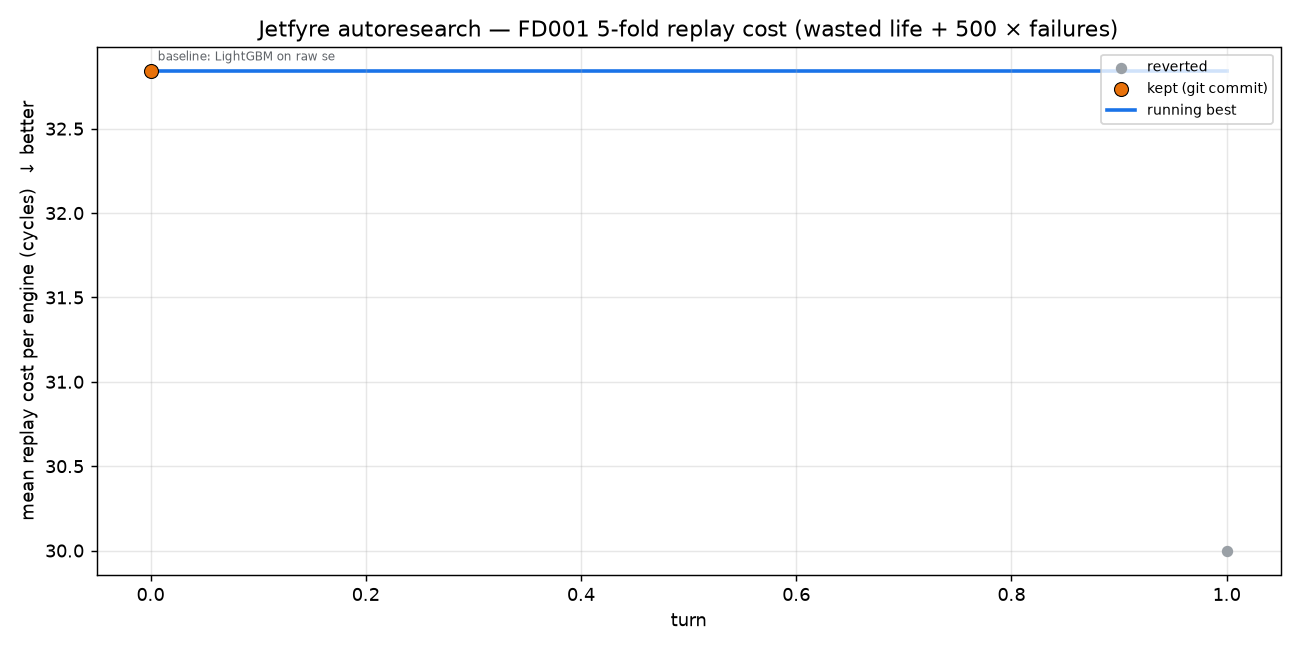
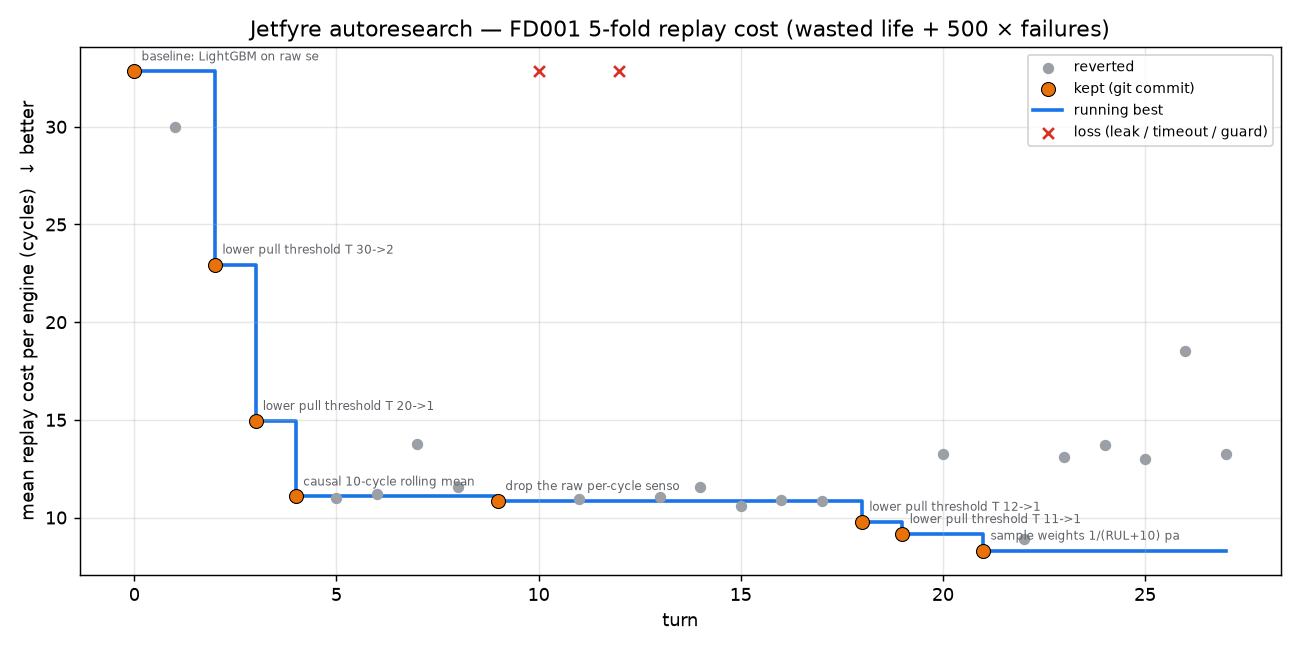
Final research-run artifacts; dashboard replays the full run

diff --git a/memory/insights.md b/memory/insights.md
@@ -34,3 +34,4 @@ Format:
 - T0024 | LightGBM monotone constraints (intermediate) on the T0021 model: RUL non-increasing in r10 of s2/s3/s4/s8/s11/s13/s15/s17, non-decreasing in s7/s12/s20/s21, s9/s14 and settings free → discard (mean 13.70 vs 8.31, wins 0/5, fails 1) | rmse125 fell slightly (28.9→27.9), but every fold got worse: f1-f4 waste rose 0.2-0.55 (9.15/8.8/10.5/7.8), and the f5 tail engine ran to failure (f5 32.25). The constraints widened the spread at the crossing: typical engines pulled earlier, and the tail engine pulled later. So the late-life warning for the worst engine comes from non-monotone sensor patterns that a physical prior removes. Don't constrain or regularise the trees toward "textbook" sensor directions. Like the six feature changes, this lever is used up. What is left untried is quantile alpha≈0.4 at T=8.5, or holdout robustness
 - T0025 | lag-free prediction smoothing on the T0021 model: pred[t] := causal 5-cycle mean of the implied failure cycle (j+pred[j]) minus t → discard (mean 13.02 vs 8.31, wins 3/5, fails 1) | overall waste fell 8.31→8.09 (f2/f3/f4 7.7/9.8/6.5, f1 worse at 9.4), but the f5 tail engine ran to failure again (f5 31.7). Removing the RUL-falls-1/cycle lag was not enough: that engine's predicted failure cycle drops late in life (prediction falls faster than 1/cycle as the warning arrives), so averaging past estimates still delays its first crossing. The noisy dip/acceleration is what saves it, so any prediction smoothing (lagged or lag-free) costs f5 its margin. Stop post-processing the prediction series. Of the levers listed so far, only quantile alpha≈0.4 at T=8.5 is still untried
 - T0026 | quantile objective alpha=0.4 (unweighted) in place of L2 + weights 1/(RUL+10), T=8.5, settings + r10 unchanged → discard (mean 18.51 vs 8.31, wins 1/5, fails 2) | one engine ran to failure on f1 (34.45) as well as the usual f5 tail engine (32.0), and the surviving engines wasted no less (f2 8.25 flat, f3 10.7 +0.55, f4 7.15 −0.1; ≈9.95 on f1's other 19 and ≈7.4 on f5's), while rmse125 fell 28.9→25.8. The conditional 40th percentile is a weaker tail protector than the weighted mean: the L2 mean is pulled down by atypical low-RUL training engines and its bias grows about with the squared spread, while the quantile ignores those outliers and shifts only about linearly. So the weights work because they are outlier-sensitive. Quantile/L1-type losses are used up. If a bias lever is tried again, make it more outlier-sensitive than the weights (e.g. an asymmetric L2 that penalises over-prediction more, together with the weights), not more robust
+- T0027 | asymmetric L2 (custom objective, grad+hess ×2 where pred>true) on top of weights 1/(RUL+10), paired with T 8.5→7.5, settings + r10 unchanged → discard (mean 13.25 vs 8.31, wins 2/5, fails 1) | f1-f4 came out almost the same as T0021 (8.85/8.25/10.15/7.05, all within 0.2) even though T dropped a full cycle, so the expectile shifted typical engines down by ≈1 cycle, exactly the T it gave up. The f5 tail engine still ran to failure (31.95), so it gained less than 1 cycle. rmse125 fell 28.9→26.5. The doubled over-prediction gradients did not make the trees pick out the tail engine. Four bias levers (sharper weights T0023, quantile T0026, expectile T0027, plus the T retunes) all trade ≈1:1 or worse, so in this feature space the tail engine's late-life features look like a typical engine's at RUL≈9. Bias/loss levers are used up, and T0021 (8.31 at T=8.5, <1 cycle of margin on f5) is the floor for this feature set. Next, spend the remaining turns on holdout robustness (e.g. T=9 on T0021 for margin) rather than on CV cost
